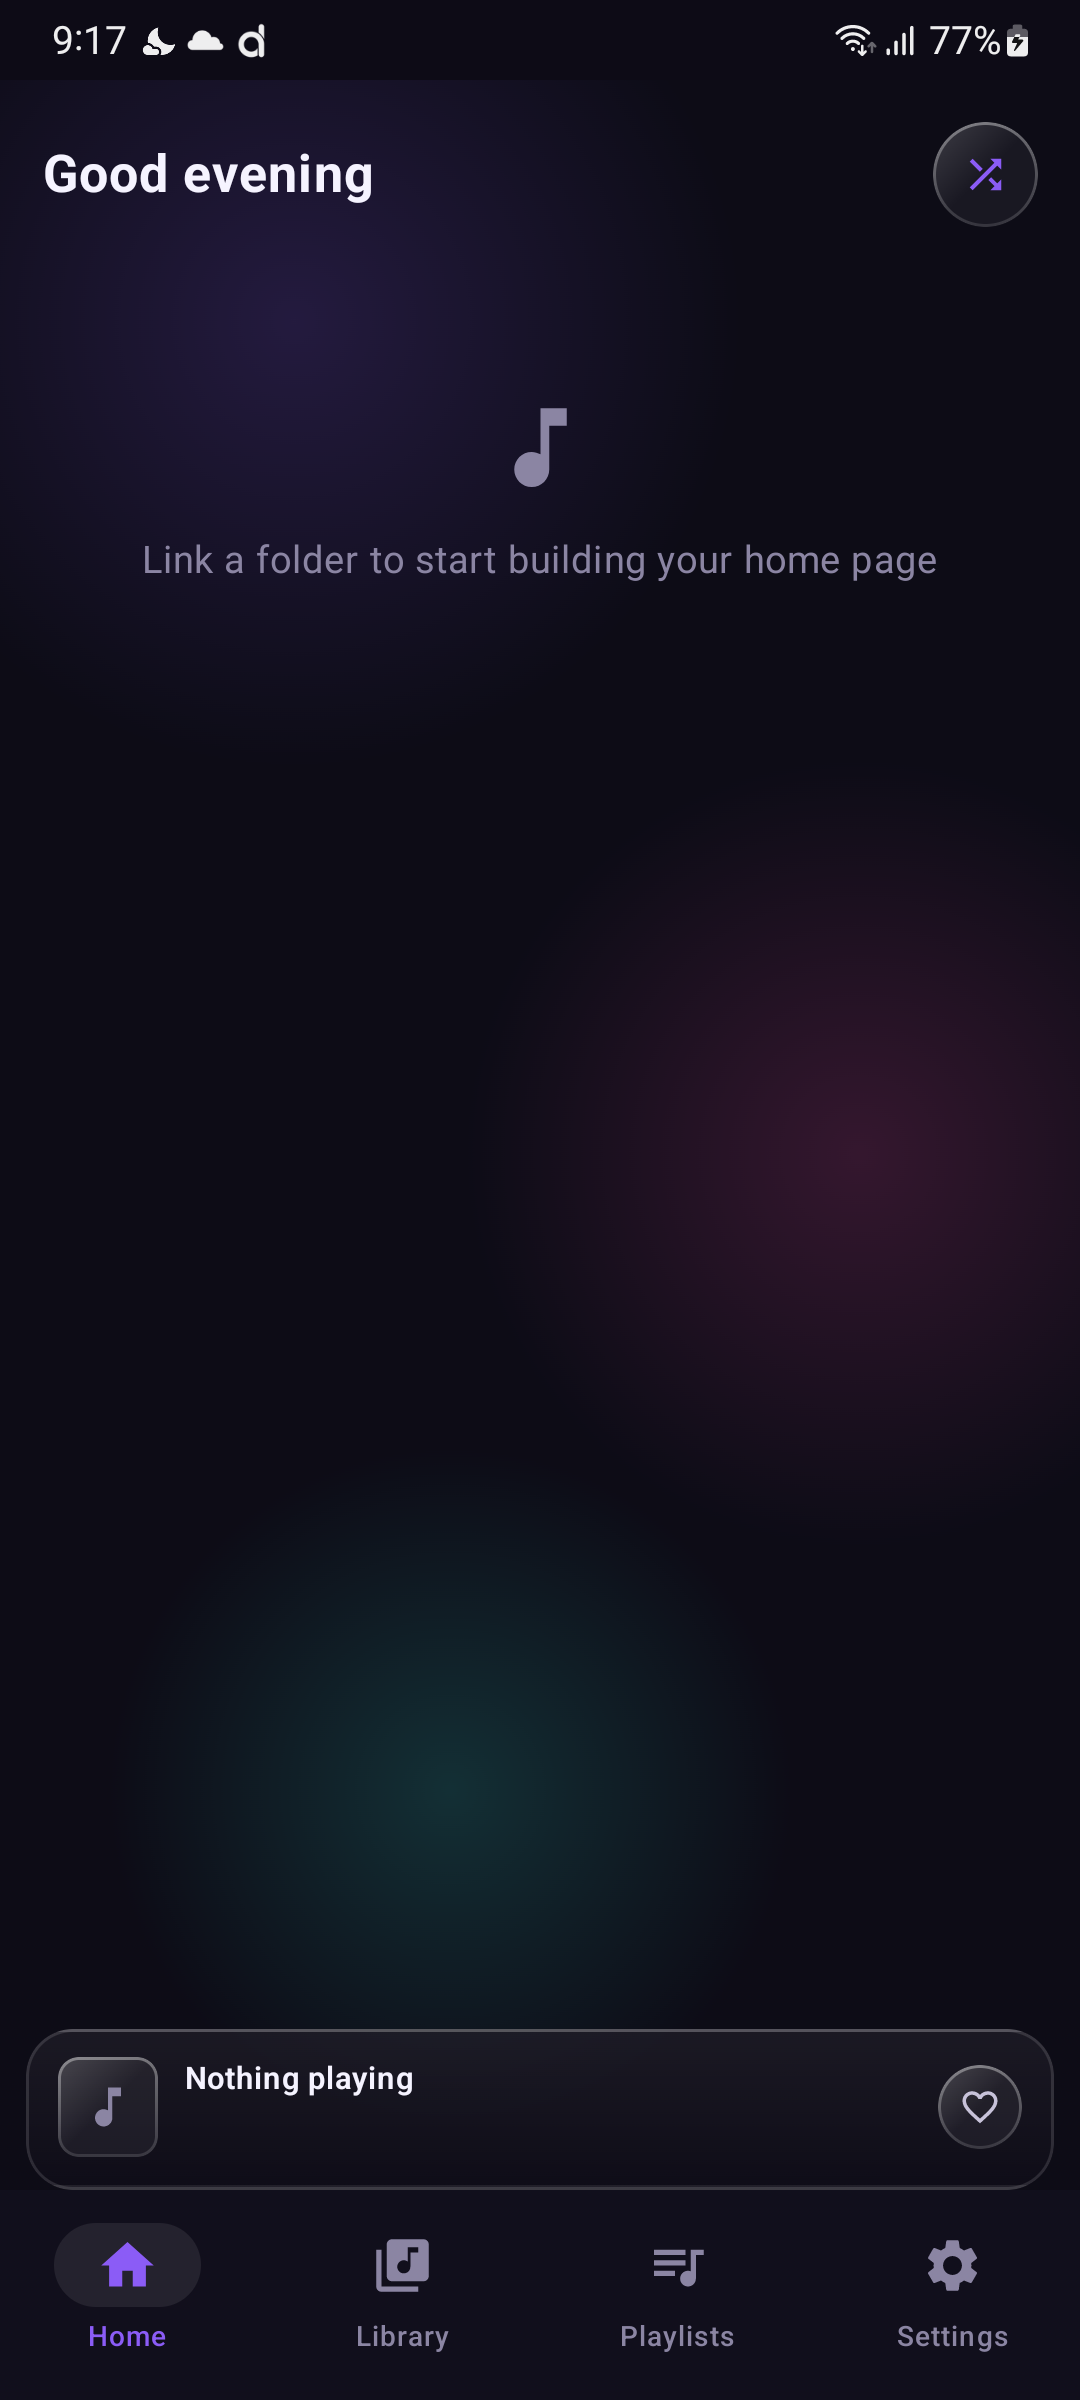
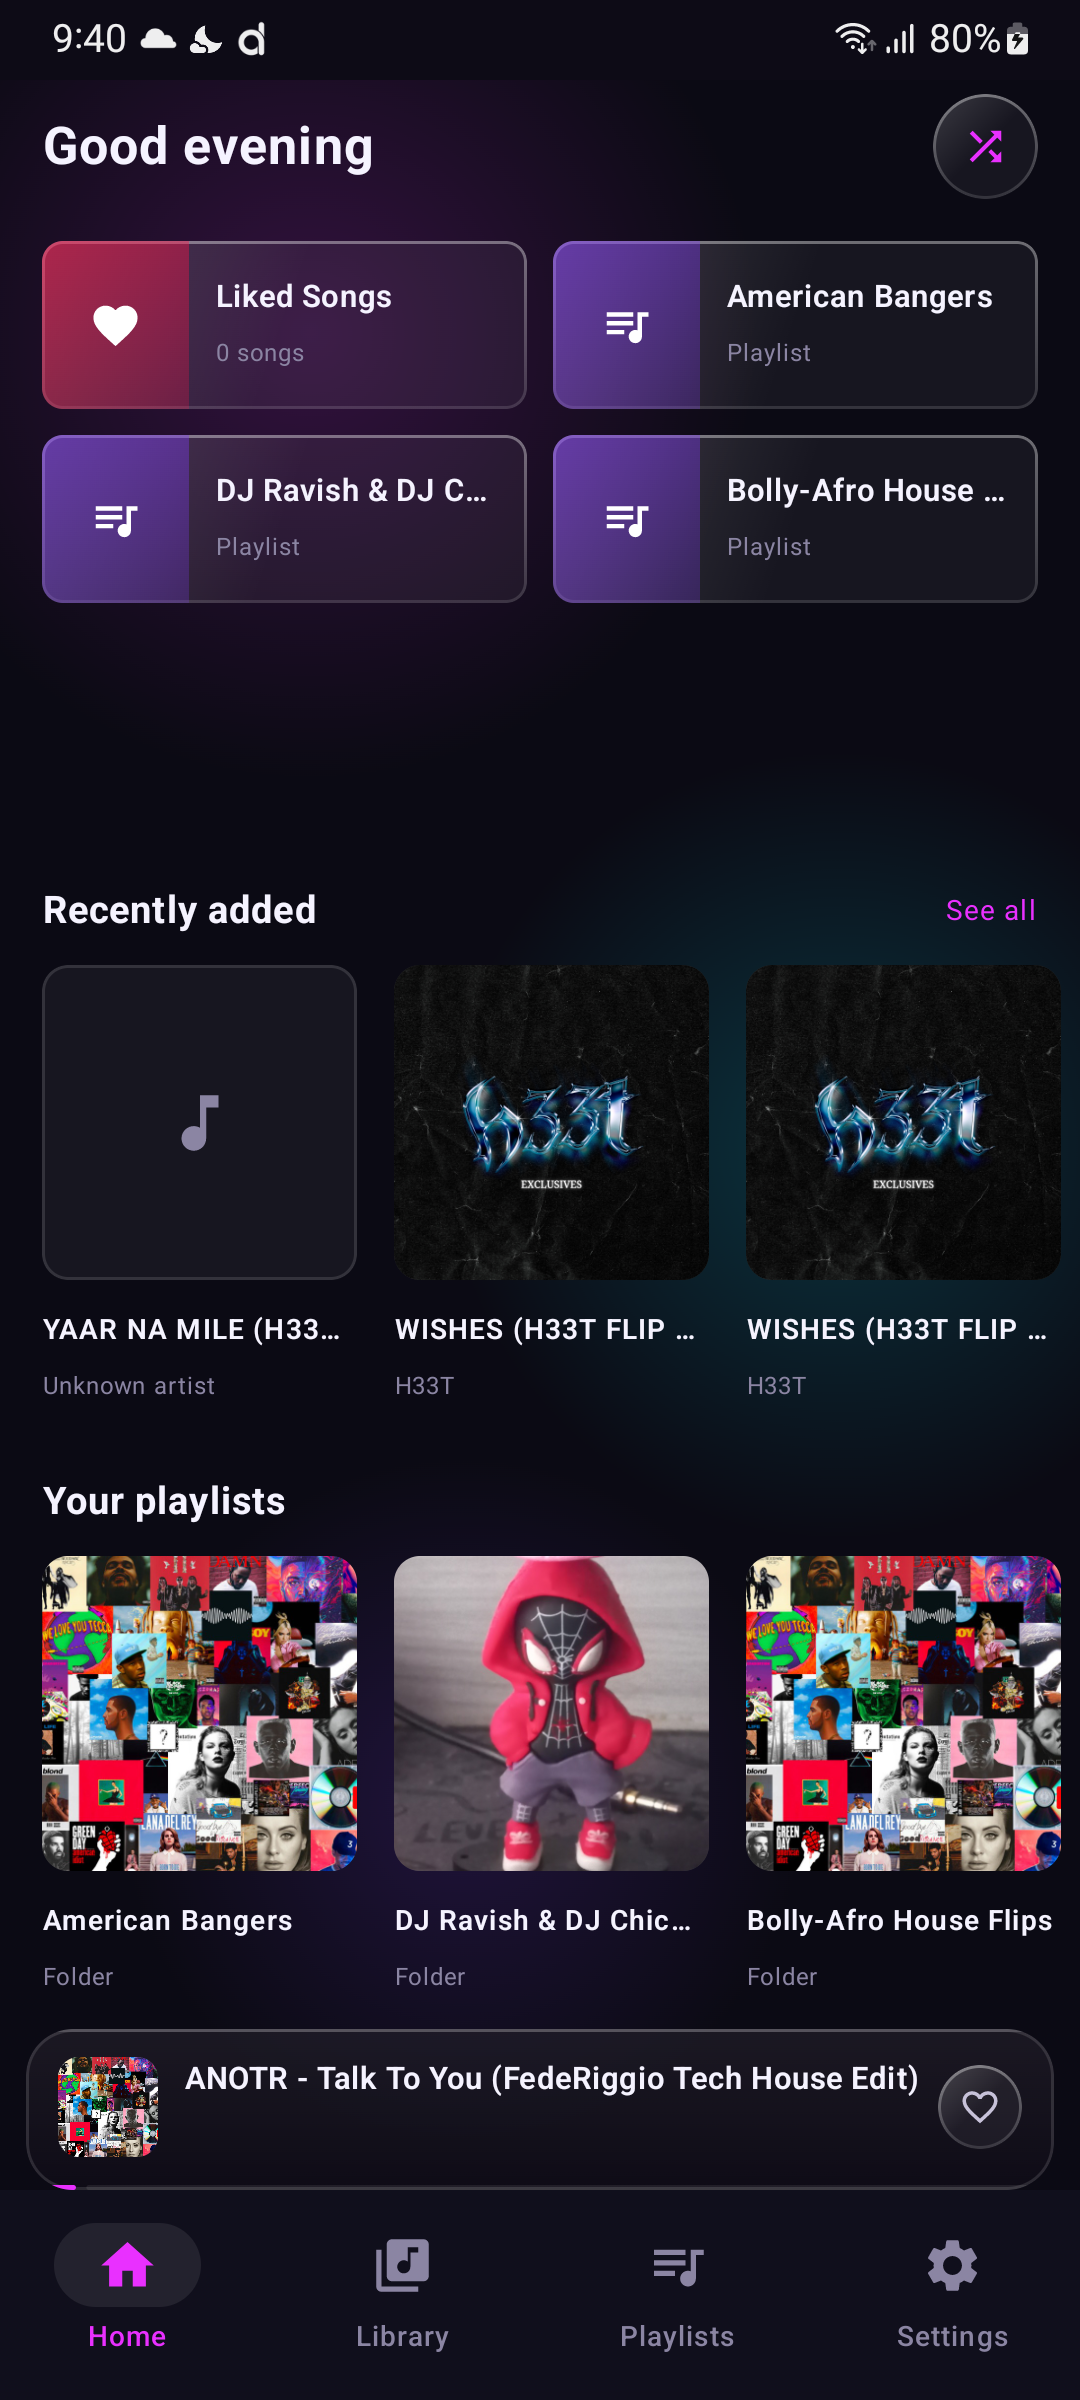
Refresh Home screenshot with real populated library, add Playlists screen
Previous Home screenshot was captured before a folder was linked, so
it showed the empty state. Replaced with a fresh capture showing
Recently Added and three real playlist folders, plus a dedicated
Playlists screen shot.

diff --git a/README.md b/README.md
@@ -36,8 +36,9 @@ GrooveBox is a free, open-source local music player for Android. No sign-in, no 
 
 | | |
 |---|---|
-| ![Home](docs/screenshot-home.png) | ![Full player with visualizer](docs/screenshot-player.png) |
-| ![Themes](docs/screenshot-themes.png) | ![Equalizer](docs/screenshot-eq.png) |
+| ![Home](docs/screenshot-home.png) | ![Playlists](docs/screenshot-playlists.png) |
+| ![Full player with visualizer](docs/screenshot-player.png) | ![Themes](docs/screenshot-themes.png) |
+| ![Equalizer](docs/screenshot-eq.png) | ![Visualizer styles](docs/screenshot-visualizer.png) |
 
 ## Download
 
